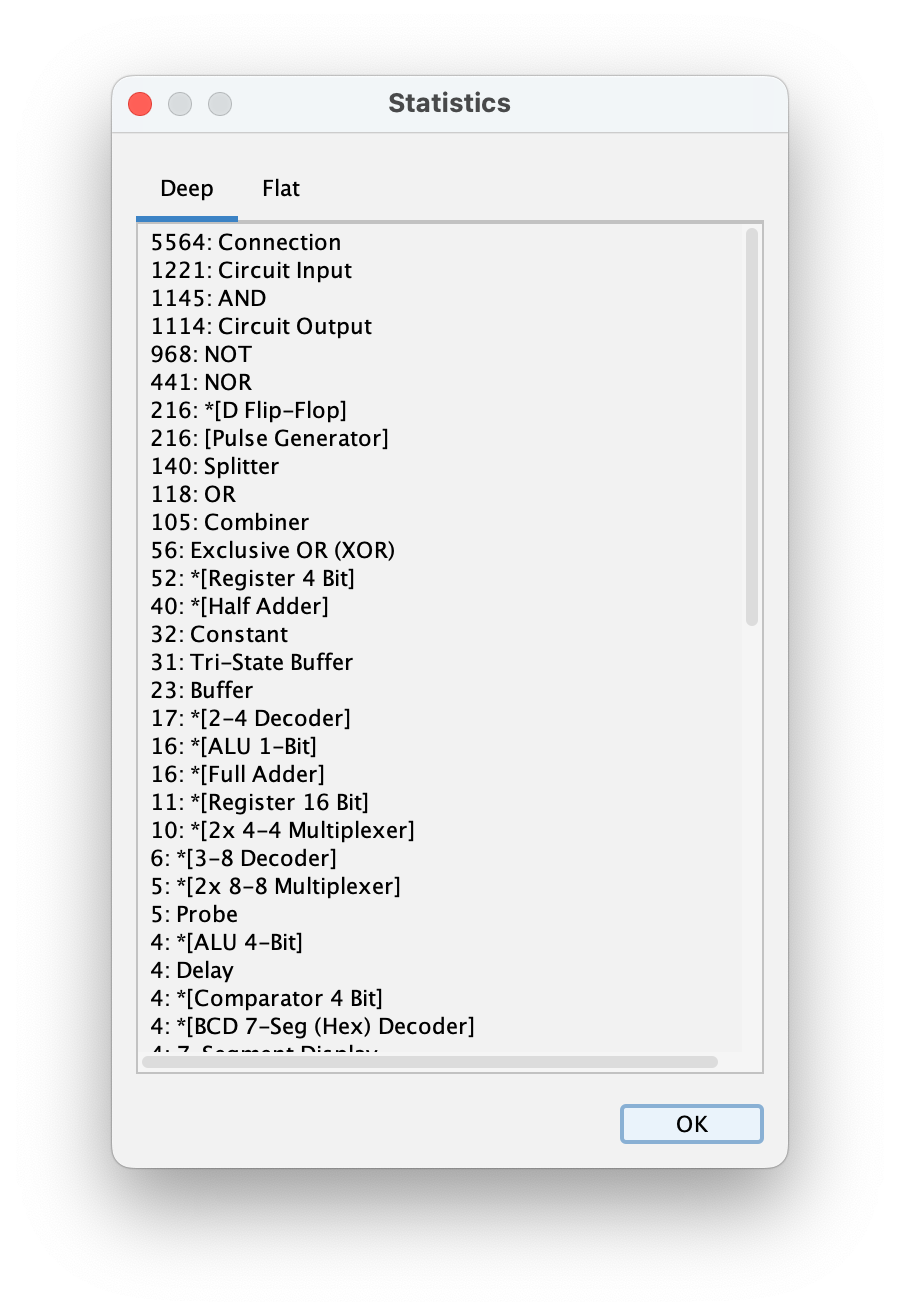
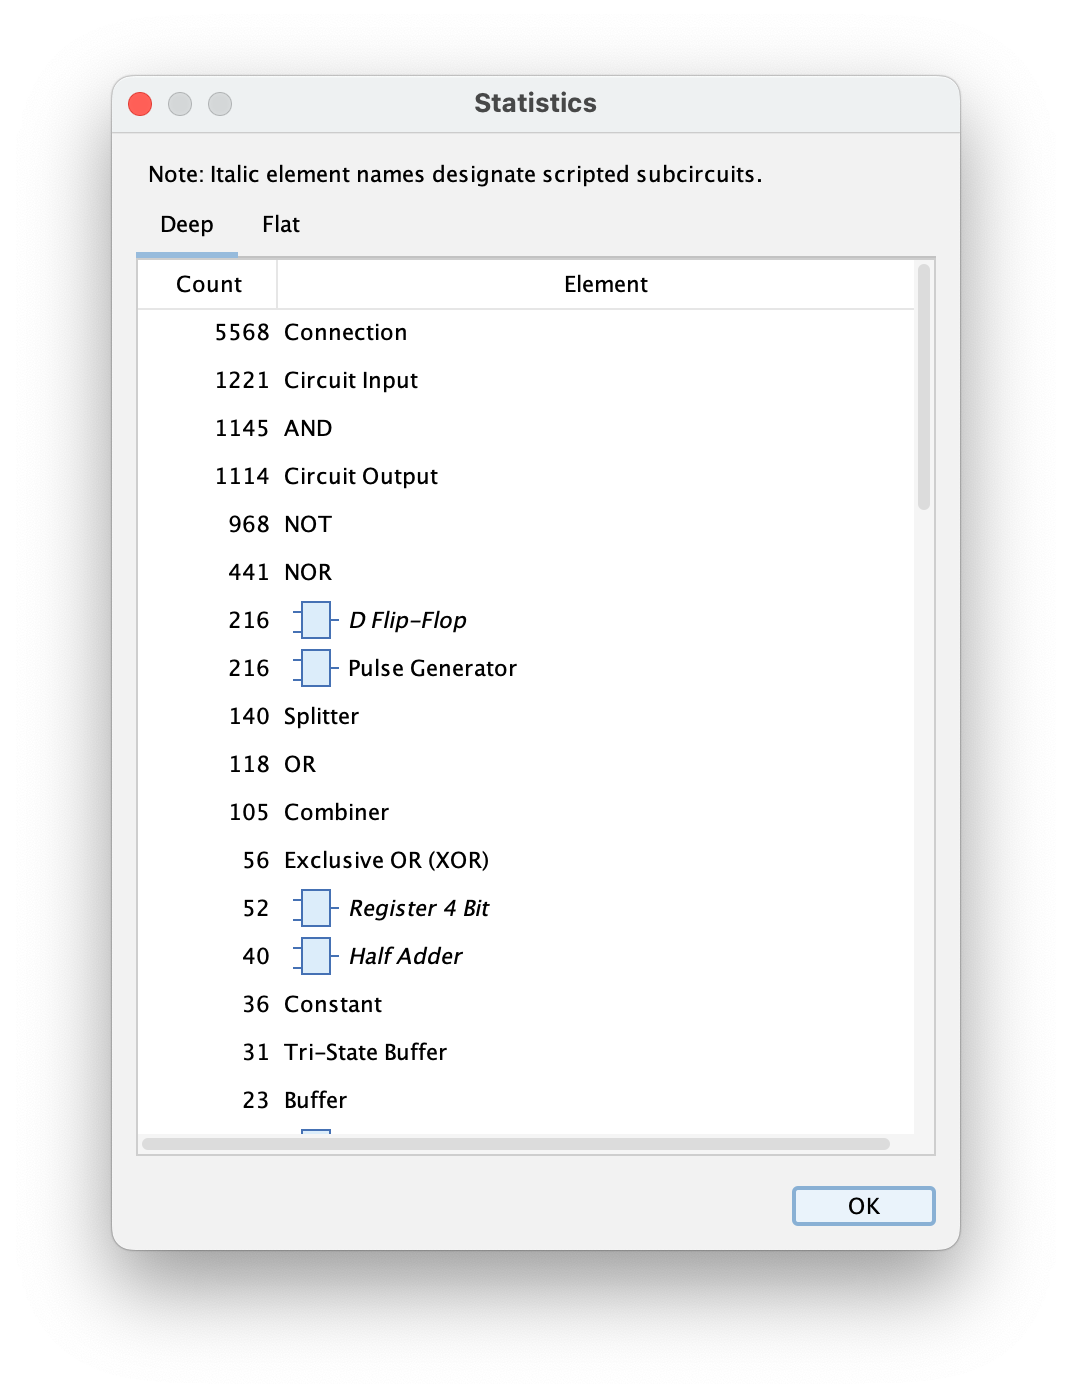
release 1.2.0

Changed region(s): [[0.0933, 0.0623, 0.9022, 0.9035]]

diff --git a/_docs/releases/release-1.2.0.md b/_docs/releases/release-1.2.0.md
@@ -1,0 +1,55 @@
+---
+layout: single
+header:
+  overlay_image: /assets/images/splash2.png
+  show_overlay_excerpt: false
+sidebar: { nav: "releases" }
+---
+
+**Release Date**: December 1, 2022
+
+Besides the usual bugfixes, this release contains some new features like a shape library in the symbol editor, a new circuit hierarchy tree view, support for changing the name of all tunnels with the same name, arbitrary bith width, changing properties of multiple selected components in one go, and a new "Verbose" gate symbol style.
+
+# Features
+
+* **#483: Shape library in symbol editor:** The symbol editor now contains a library of commonly usable geometrical shapes (rectangle, oval etc) and circuit symbols (AND, OR, NOT, multiplexer, ALU etc) to pick from when designing a custom symbol in the symbol editor.
+
+* **#484: Add "Curve" tool to symbol editor:** The "Curve" tool known from the circuit editor has now also been added to the symbol editor.
+
+* **#485: Add demultiplexer circuits to the Standard Library:** The Standard Library has been extended by a couple of demultiplexer circuits.
+
+* **#492: Circuit hierarchy tree view:** The main window now contains a new left sidebar with a circuit hierarchy tree view that allows you to directly open subcircuits located deep down in the circuit hierarchy in a new view.
+
+* **#493: Change names of all tunnels with the same old name:** When the user changes the name of a single tunnel, and there are other tunnels with the same old name, Antares now asks the user whether he wants to change the name of these other tunnels as well.
+
+* **#498: Arbitrary Bitwidth for IO (and params):** All bitwidth properties of any component now support adding arbitrary bitwidth between 1 and 64. The commonly used bitwidths are still offered in a dropdown menu.
+
+* **#502: Help menu with link to YouTube channel:** Added a "Introduction Videos (YouTub)" item to the "Help" menu that directs the user's web browser to the Antares YouTube channel.
+
+* **#503: Improve usability of the "File->Statistics" dialog:** The way information is presented in the statistics dialog has been simplified and clarified regarding "scripted" subcircuits and "built-in" vs "subcircuit" components.
+
+* **#504: Scrolling in navigation breadcrumb:** If the navigation breadcrumb at the top of a circuit view becomes too wide for the available space, Antares now displays buttons that allow the user to scroll horizontally within the breadcrumb view.
+
+* **#506: Edit property of multiple selected components in one go:** If you select multiple components of the same or simillar type, Antares now allows you to edit common properties of all these components in one go.
+
+* **#509: New gate style "Verbose":** In addition to the existing gate styles "ANSII" and "IEC", Antares now supports another gate style "Verbose" whose box is the same as in "IEC", but the labels are more verbose (e.g. "AND" instead of "&"). This might be useful for beginners. Some have called this new feature "Noob mode".
+
+* **#511: Display "drag" image when dragging components from explorer:** Standard drag&drop procedures require an application to display an image determined by the drag's origin to let the user know a drag operation has been started. This has now also been implemented in Antares.
+
+# Bugfixes
+
+* **#486: Wrong names of multiplexers in Standard Library:** Instead of e.g. "2x 4-4 Multiplexer", they are now called "2:1 Multiplexer 4 Bit".
+
+* **#487: Repainting error in handles of wires with layout "None":** If a wire has layout "None", Antares draws rectangular handles at each corner of the wire. These handles allow you to freely position intermediate points of a wire. With certain (smaller) zoom factors, those handles were sometimes not correctly drawn. Parts of them could be cut-off due to an error in the bounding box calculation.
+
+* **#491: Breadcrumb element too narrow for longer text:** Depending on the OS and the used font, the text in a breadcrumb element at the top of a circuit was sometimes be longer than the element itself. This has been fixed.
+
+* **#496: Breadcrumb display is truncated:** When diving into multiple levels of a deep subcircuit hiearchy, the breadcrumb view above the main circuit was truncated around the middle of the main view width. This was a layout problem that is now fixed.
+
+* **#496: Menu accelerator conflict ALT-CMD-F:** The menu accelerator ALT-CMD-F was both used for "Edit->Find" and "View->Zoom to fit (max. 100%)". "Edit->Find" now uses SHIFT-CMD-F.
+
+* **#505: UI doesn't scale well everywhere with large UI font:** The user can change the UI font to a very large one. Some parts of the UI didn't adopt properly to such a large font. This has been fixed.
+
+* **#507: Bit width annotations overlap in gate with more than 2 inputs:** If you have e.g an AND gate with 3 inputs, and you set the bit width to e.g. 8, every input pin displayed a bit width annotation "8", but since the pins are very close, the annotations overlapped with the neighbouring pin. Bit width annotations at inputs of gates are now only displayed if number of inputs <= 2, else only on the last input pin.
+
+* **#508: Preference "Circuit -> Gate style" is not stored:** When changing the gate style e.g. to "IEC" and pressing "Apply" in the preferences dialog, the new value is immediately effective in open circuits. However, when closing Antares and restarting again, the old value "ANSI/IEEE" re-appeared. This has been fixed.

diff --git a/_docs/design.md b/_docs/design.md
@@ -36,13 +36,15 @@ Or you can forgo to design them and let Antares automatically generate them usin
 | --- | ----- |
 | <img src="/assets/images/user-manual/subcircuits/generate_narrow-symbol.png" width="200"> | <img src="/assets/images/user-manual/subcircuits/generate_wide_symbol.png" width="200"> |
 
-### IEC and ANSI gate symbols
+### Various gate symbol styles
 
-Switch between IEC and ANSI symbol style.
+Choose your preferred gate symbol style.
 
-| IEC | ANSI |
+| Style | Example |
 | --- | ----- |
-| <img src="/assets/images/design/iec-symbol-style.png" width="300"> | <img src="/assets/images/design/ansi-symbol-style.png" width="300"> |
+|IEC | <img src="/assets/images/design/iec-symbol-style.png" width="300"> |
+|ANSI | <img src="/assets/images/design/ansi-symbol-style.png" width="300"> |
+|Verbose | <img src="/assets/images/design/verbose-symbol-style.png" width="300">  |
 
 ### Versatile gates
 

diff --git a/_docs/quick-start.md b/_docs/quick-start.md
@@ -7,9 +7,9 @@ header:
 
 ## Download
 
-[Windows](https://github.com/flandreas/antares/releases/download/v1.1.0/Antares-1.1.0.msi){: .btn .btn--success .btn--large}
-[macOS](https://github.com/flandreas/antares/releases/download/v1.1.0/Antares-1.1.0.dmg){: .btn .btn--success .btn--large}
-[Linux](https://github.com/flandreas/antares/releases/download/v1.1.0/antares-1.1.0-1.x86_64.rpm){: .btn .btn--success .btn--large}
+[Windows](https://github.com/flandreas/antares/releases/download/v1.2.0/Antares-1.2.0.msi){: .btn .btn--success .btn--large}
+[macOS](https://github.com/flandreas/antares/releases/download/v1.2.0/Antares-1.2.0.dmg){: .btn .btn--success .btn--large}
+[Linux](https://github.com/flandreas/antares/releases/download/v1.2.0/antares-1.2.0-1.x86_64.rpm){: .btn .btn--success .btn--large}
 
 ## Installation
 

diff --git a/index.md b/index.md
@@ -7,7 +7,7 @@ header:
       url: "/docs/quick-start"
 excerpt: >
   A free, powerful platform for designing, simulating and explaining digital circuits.<br />
-  <small><a href="docs/releases/release-1.1.0">Latest release 1.1.0</a></small><br />
+  <small><a href="docs/releases/release-1.2.0">Latest release 1.2.0</a></small><br />
 description: "digital circuit simulator simulation education"
 intro:
   - excerpt: We are a small, independent team with a passion for software development and for explaining how complex systems work.<br><br>You can contact us on <img src="/assets/images/antares-email.png" style="width:250px"> or by creating an issue or starting a discussion on our <a href="https://github.com/flandreas/antares">GitHub project</a>.

diff --git a/_docs/faq.md b/_docs/faq.md
@@ -60,4 +60,6 @@ the "Break" component.
 
 ### Why is my custom flip-flop oscillating?
 
-Simulation of sequential circuits is sensitive to logic gate's propagation delay, which is 20 ns by default. Choose either a different propagation delay for both of the gates in the flip-flop, or select menu "Simulation" -> "Noise" -> "Random noise" to let Antares vary the propagation delays randomly.
+Simulation of sequential circuits is sensitive to logic gate's propagation delay, which is 20 ns by default. To avoid oscillation, you have several possibilities:
+- Choose a different propagation delay for both of the gates in the flip-flop
+- Select menu "Simulation" -> "Noise" -> "Random noise" to let Antares vary the propagation delays randomly

diff --git a/_posts/2022-12-01-release-1.2.0.md b/_posts/2022-12-01-release-1.2.0.md
@@ -1,0 +1,8 @@
+---
+title: Release 1.2.0
+---
+
+Besides the usual bugfixes, this release contains some new features like a shape library in the symbol editor, a new circuit hierarchy tree view, support for changing the name of all tunnels with the same name, arbitrary bith width, changing properties of multiple selected components in one go, and a new "Verbose" gate symbol style.
+
+Check out the [release letter](/docs/releases/release-1.2.0/index.html)
+for a more in-depth description of what has changed with the new release.

diff --git a/_docs/about.md b/_docs/about.md
@@ -90,3 +90,4 @@ The ultimate goal of Antares is to facilitate interactive textbooks with active 
 - [AdoptOpenJDK](https://adoptopenjdk.net)
 - [FlatLaf Look and Feel](https://www.formdev.com/flatlaf/)
 - Icons by Janis
+- Ping service and upcoming web app by Noah
